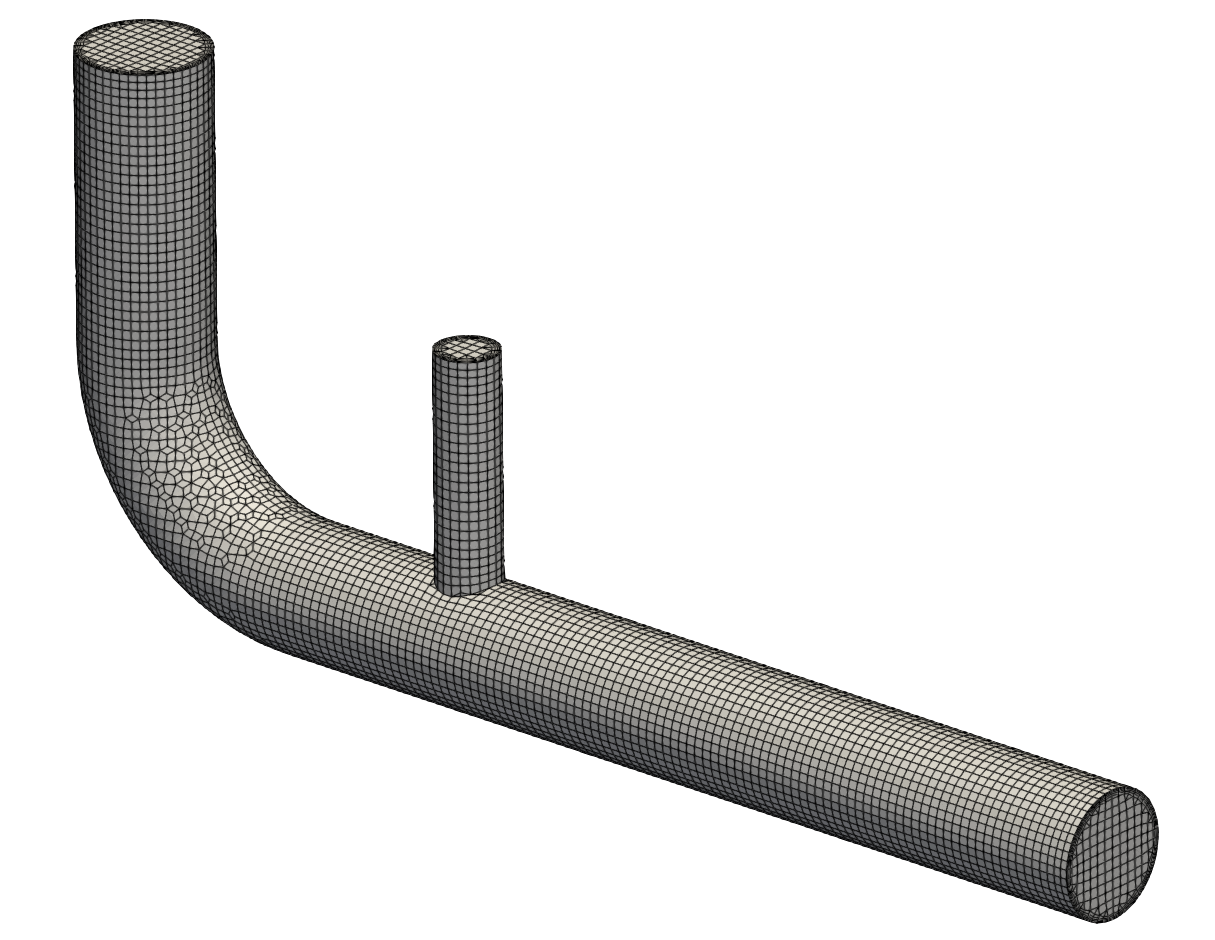
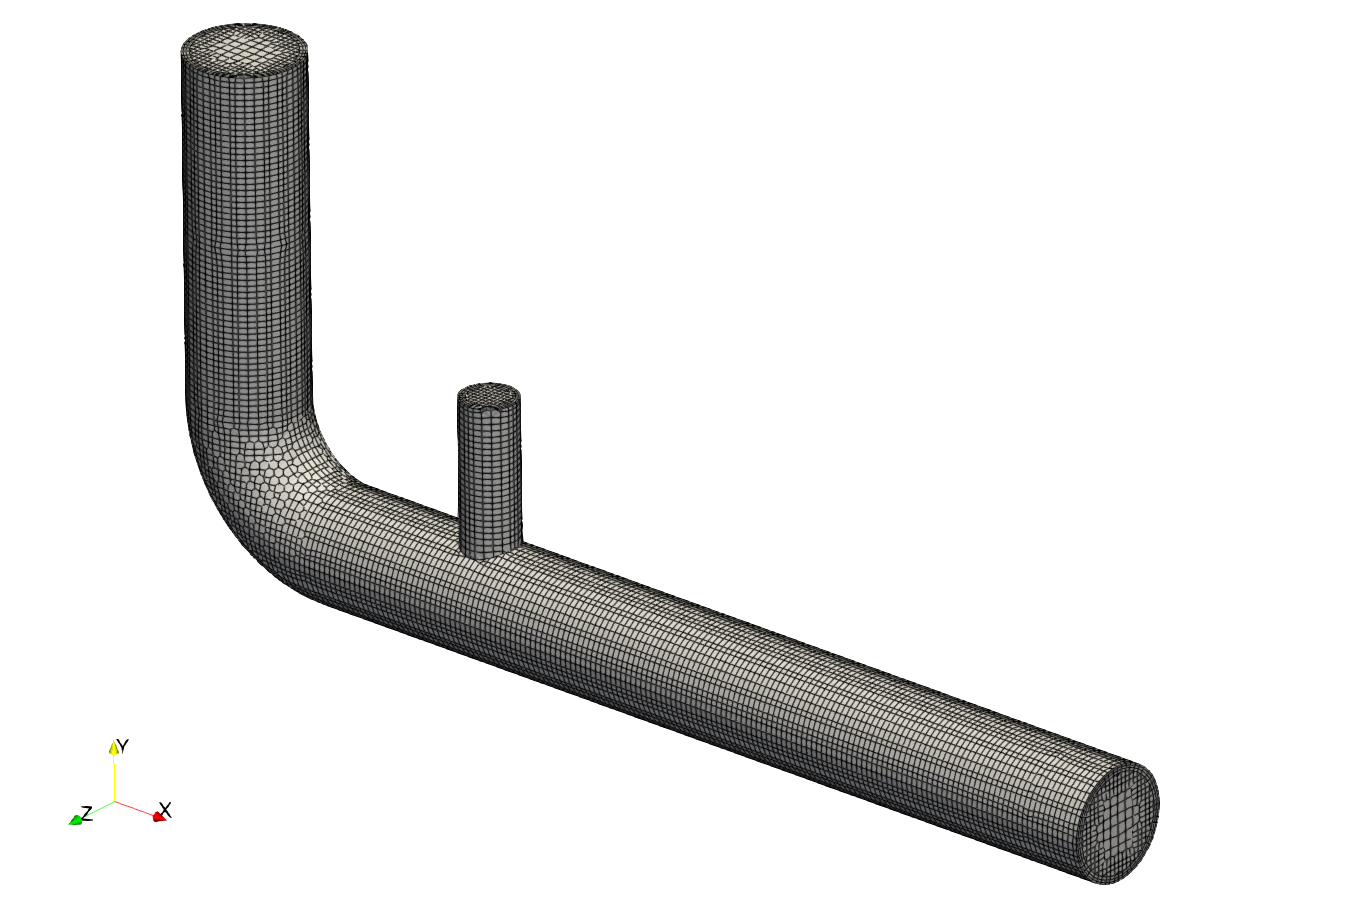
egr: pre-processing completed

diff --git a/6_exhaust_gas_recirculation/1_preprocessing.md b/6_exhaust_gas_recirculation/1_preprocessing.md
@@ -75,9 +75,9 @@ The overall cell size solely depends on the cell size of the background mesh and
 
 
 
-### Background Mesh Generation
+### Background Mesh
 
-At first, a background mesh must be generated using `blockMesh`. The `blockMeshDict` in the `system` folder creates a structured mesh, which completely spans the provided geometry of the exhaust gas recirculation domain. This background mesh can be generated as follows:
+At first, a background mesh must be generated using `blockMesh`. The `blockMeshDict` in the `system` folder creates a structured mesh, which completely spans the provided geometry of the exhaust gas recirculation domain with $$24 \times 12 \times 3$$ cells in $$x$$-, $$y$$-, and $$z$$-direction, respectively. This results in a uniform cell size of $$\Delta = 16.67\,\text{mm}$$. This background mesh can be generated as follows:
 
 ```bash
 blockMesh
@@ -85,79 +85,55 @@ blockMesh
 
 
 
+### Automated Hex-dominated Mesh
+
+The automated mesh generation can be started using the following command
+
+```bash
+snappyHexMesh
+```
+
+The background mesh is refined towards the wall patches `pipe_air` and `pipe_exhaust` by spliting the cells of the background mesh 3 times resulting in a cell size of $$\Delta \approx 2.1\,\text{mm}$$. At the other patches, the background mesh is refined only once for a cell size of $$\Delta \approx 8.33\,\text{mm}$$. Finally, three layers of prism cells are added at the `pipe_air` and `pipe_exhaust` wall patches with a growth ratio of 1.2.
+
+The resulting mesh looks as follows:
+
 ![Exhaust gas recirculation coarse mesh](figures/exhaust-gas-recirculation-mesh.png)
 
-
-At this point the mesh generation is complete. The mesh consists of:
- - Background mesh with a cell size of $$3 \text{mm}$$
- - Five inflation layers at the walls with a thickness ratio of 1.3.
- - Correct patch types for air and exhaust inlet, outlet, and pipe walls.
 
 
 
 
 ## Mesh Quality
 
-Once the mesh has been created, it is always recommended to check the mesh statistics and quality. This can easily be done using the utility `checkMesh` from within the `exhaust_gas_recirculation` folder:
+After mesh generation, the mesh statistics and quality are checked with `checkMesh`, run from within the case directory:
 
 ```
 checkMesh
 ```
 
-The most relevant output is as follows:
+The relevant part of the output is:
 
 ```
-// * * * * * * * * * * * * * * * * * * * * * * * * * * * * * * * * * * * * * //
-Create time
-
-Create polyMesh for time = 0
-
-Time = 0s
-
-Mesh stats 
-    points:           66681
-    faces:            190868
-    internal faces:   181436
-    cells:            62182
-    faces per cell:   5.98733
+Mesh stats
+    points:           88119
+    faces:            244816
+    cells:            78617
     boundary patches: 5
-
 ...
 
 Checking geometry...
-    Overall domain bounding box (-20.0004 -170 -19.9912) (360 7.23793e-11 19.9912)
-    Mesh has 3 geometric (non-empty/wedge) directions (1 1 1)
-    Mesh has 3 solution (non-empty) directions (1 1 1)
-    Boundary openness (4.74107e-17 -7.05875e-17 -2.54233e-15) OK.
-    Max cell openness = 5.20632e-16 OK.
-    Max aspect ratio = 16.3738 OK.
-    Minimum face area = 0.206012. Maximum face area = 13.7709.  Face area magnitudes OK.
-    Min volume = 0.177828. Max volume = 37.082.  Total volume = 627526.  Cell volumes OK.
-    Mesh non-orthogonality Max: 61.6751 average: 6.22186
-    Non-orthogonality check OK.
-    Face pyramids OK.
-    Max skewness = 2.4353 OK.
-    Coupled point location match (average 0) OK.
-
+    Overall domain bounding box (-20 -20 -20.0002) (360 160 20.0002)
+    Max aspect ratio = 5.87141 OK.
+    Mesh non-orthogonality Max: 63.1022 average: 8.46125
+    Max skewness = 1.57355 OK.
 
 Mesh OK.
-    
-End
 ```
 
-This gives us all relevant mesh statistics and quality criteria of the mesh:
+The mesh has 78617 cells across 5 boundary patches, and all quality metrics are well within their limits: a maximum aspect ratio of 5.87, a maximum non-orthogonality of 63.10, and a maximum skewness of 1.57. The closing `Mesh OK`. confirms that no critical issues were found, so we can proceed to the simulation.
 
-- The mesh consists of 62182 cells,
-- has 5 different boundary patches,
-- the overall boundingbox of $$380\,\text{m}$$ in $$x$$-direction, $$170\,\text{m}$$ in $$y$$-direction and $$40\,\text{m}$$ in $$z$$-direction.
 
-As this is a hexa-dominant, unstructured mesh with five layers of inflation cells on the wall surfaces, the mesh quality in general is good:
 
-- max cell aspect ratio of 16.4,
-- a maximum mesh non-orthogonality of 61.7, and
-- a max cell skewness of 2.44.
-
-The final output `Mesh OK.` indicates that no critical problems or errors were found during `checkMesh`. Therefore, we can continue with this mesh and proceed with the simulation.
 
 
 ## Mesh Scaling
@@ -182,7 +158,7 @@ Thermophysical models are concerned with:
 - Transport, e.g. the dependence of properties such as viscosity $$\mu$$ on temperature
 - State, e.g. dependence of density on temperature $$T$$ and pressure $$p$$.
 
-Unlike the setup for incompressible flows, these thermophysical properties are stored in the `thermophysicalProperties` file in the `constant` directory.
+These thermophysical properties are stored in the `physicalProperties` file in the `constant` directory.
 
 A thermophysical model required an entry named `thermoType` which specifies the package of thermophysical modelling that is used in the simulation. OpenFOAM includes a large set of pre-compiled combinations of modelling, built within the code using C++ templates.
 
@@ -203,7 +179,7 @@ thermoType
 }
 ```
 
-Depending on these submodels, specific fluid properties have to be specified. These settings are within the `mixture` dictionary in the `thermophysicalProperties` file:
+Depending on these submodels, specific fluid properties have to be specified. These settings are within the `mixture` dictionary in the `physicalProperties` file:
 
 ```
 mixture
@@ -220,7 +196,7 @@ mixture
     transport
     {
         mu          1.8e-5;
-        Pr          0.7;
+        kappa       0.025;
     }
 }
 ```
@@ -243,13 +219,13 @@ with the specific gas constant for air $$R$$.
 
 #### **Transport model**
 
-The transport modelling concerns evaluating dynamic viscosity $$\mu$$, thermal conductivity $$\kappa$$, and thermal diffusivity $$\alpha$$. In this case, a `const` transport model is specified, which assumes a constant dynamic viscosity $$\mu$$ and Prandtl number $$\text{Pr}$$. These two variables are specified by the keywords `mu` set to $$1.8 \times 10^{-5}$$ and `Pr` to $$0.7$$. Since thermal conductivity and thermal diffusivity can be derived from these quantities, they do not have to be specified.
+The transport modelling concerns evaluating dynamic viscosity $$\mu$$, thermal conductivity $$\kappa$$, and thermal diffusivity $$\alpha$$. In this case, a `const` transport model is specified, which assumes a constant dynamic viscosity $$\mu$$ and thermal conductivity $$\kappa$$. These two variables are specified by the keywords `kappa` set to $$1.8 \times 10^{-5}$$ and `kappa` to $$0.025$$.
 
 
 
 ## Turbulence Modelling
 
-The turbulence model is set in the `turbulenceProperties` file in the `constant` directory. The content of the file is as follows:
+The turbulence model is set in the `momentumTransport` file in the `constant` directory. The content of the file is as follows:
 
 ```
 simulationType RAS;
@@ -288,7 +264,7 @@ inlet_exhaust
 }
 ```
 
-Pressure at the inlet is treated as zero gradient and inlet temperature is $$300\,\text{K}$$ for the air inlet and $$900\,\text{K}$$ for the exhaust gas inlet, respectively. At the outlet, velocity and temperature are treated as zero gradient and the static pressure is set to $$10^5\,\text{Pa}$$. The walls are considered no-slip and adiabatic. Thus, the velocity is set to $$(0 \, 0 \, 0)$$, temperature and pressure to zero gradient.
+Pressure at both inlets is treated as zero gradient and inlet temperature is $$300\,\text{K}$$ for the air inlet and $$900\,\text{K}$$ for the exhaust gas inlet, respectively. At the outlet, velocity and temperature are treated as zero gradient and the static pressure is set to $$10^5\,\text{Pa}$$. The walls are considered no-slip and adiabatic. Thus, the velocity is set to $$(0 \, 0 \, 0)$$, temperature and pressure to zero gradient.
 
 
 ### Turbulent Quantities
@@ -301,11 +277,12 @@ Turbulent viscosity $$\nu_t$$ and turbulent thermal diffusivity $$\alpha_t$$ hav
 
 ## Simulation Control
 
-Settings related to the control of time and reading and writing of the solution data are read in from the `controlDict` file in the `system` folder.
+Time control, solver selection and output settings are read from the `controlDict` in the `system` directory:
 
-The key settings for this steady-state turbulent simulation include:
 ```
-application     rhoPimpleFoam;
+solver          fluid;
+
+startFrom       latestTime;
 
 startTime       0;
 
@@ -313,72 +290,58 @@ stopAt          endTime;
 
 endTime         0.08;
 
-deltaT          8e-6;
+deltaT          1.25e-5;
 
 writeControl    runTime;
 
 writeInterval   0.002;
 ```
 
-In this tutorial case, the solver `rhoPimpleFoam` is used, a pressure-based solver for compressible, transient, laminar or turbulent single-phase flows. The simulation starts at time `0`. Therefore we set the `startFrom` keyword to `startTime` and then specify the `startTime` keyword to be `0`. The simulations runs until an end time of $$0.08\,\text{s}$$. Time step size `deltaT` is set to $$8 \times 10^{-6}\,\text{s}$$ for stability reasons. Finally, results are witten out every $$0.002\,\text{s}$$ configured via the `writeInterval` keyword.
+In this tutorial case, the solver `fluid` is used, a pressure-based solver for compressible, steady-state or transient, laminar or turbulent single-phase flows. The simulation starts at time `0`, runs until an end time of $$0.08\,\text{s}$$. Time step size `deltaT` is set to $$1.25 \times 10^{-5}\,\text{s}$$ for stability reasons. Finally, results are witten out every $$0.002\,\text{s}$$.
 
 
 
 ## Discretization
 
-The user specifies the choice of finite volume discretisation schemes in the `fvSchemes` dictionary in the `system` directory. Here, we will only cover the most relevant settings.
+The finite-volume discretisation schemes are set in the `fvSchemes` dictionary in the `system` directory. Since this is a transient simulation, the temporal term discretization is first Euler implicit, gradients use an unlimited second order scheme `Gauss linear`, and the convective terms for momentum, energy, and turbulent scalars use a second order upwind scheme. Since the SST $$k-\omega$$ turbulence model is chosen, the distance from cell centers to the nearest wall has to be computed. For this, the `meshWave` method is selected under `wallDist`.
 
-### Temporal derivatives
-
-The discretization of the temporal derivatives $$(\partial / \partial t)$$ is defined within the `ddtSchemes` keyword. The entry here is set to `Euler`, e.g. a first order implicit time discretization.
 
 ```
 ddtSchemes
 {
-    default             Euler;
+    default         Euler;
 }
-```
 
-### Gradient terms
-
-The discretization of the gradient terms is defined within the `gradSchemes` keyword. All gradient schemes are discretized equally with a second order **central differencing scheme**. Hence, the `default` discretization is set to `Gauss linear`.
-
-```
 gradSchemes
 {
-    default             Gauss linear;
+    default         Gauss linear;
 }
-```
 
-### Convective terms
-
-The discretization of the convective transport terms is defined within the `divSchemes` keyword. The convective transport of momentum `div(phi,U)` adn enthalpy `div(phi,h)` is discretized using the **second order upwind scheme** called `Gauss linearUpwind` combined with the default gradient scheme defined under `gradSchemes`. The convection of kinetic energy in the energy equation `div(phi,K)` is discretized with a **second order central differencing scheme** called `Gauss linear` and the turbulent quantities are discretized with **first order upwind**.
-
-Additionaly, `div((nuEff*dev2(T(grad(U)))))` denotes the divergence of the shear stress tensor in the momentum equation. Since this term is diffusive in nature, it is recommended to discretize it with a central differencing scheme, here `Gauss linear`.
-
-```
 divSchemes
 {
-    div(phi,U)      Gauss linearUpwindV default;
+    div(phi,U)      Gauss linearUpwindV  Gauss linear;
 
-    div(phi,h)      Gauss linearUpwind default;
-    div(phi,K)      Gauss linear;
+    div(phi,h)      Gauss linearUpwind Gauss linear;
+    div(phi,K)      Gauss linearUpwind Gauss linear;
 
-    div(phi,k)      Gauss upwind;
-    div(phi,omega)  Gauss upwind;
+    div(phi,k)      Gauss linearUpwind Gauss linear;
+    div(phi,omega)  Gauss linearUpwind Gauss linear;
+}
 
-    div(((rho*nuEff)*dev2(T(grad(U))))) Gauss linear;
+...
+
+wallDist
+{
+    method          meshWave;
 }
 ```
 
 
 ## Linear Solver Settings
 
-The specification of the linear equation solvers, tolerances and other algorithm controls is made in the `fvSolution` dictionary in the `system` directory. These settings are as follows for the exhaust gas recirculation case.
+The linear equation solvers, tolerances and coupling controls are set in the `fvSolution` dictionary in the `system` directory.
 
-### Solver settings
-
-The pressure field in the pressure-velocity coupling is solved using a **Geometric agglomerated Algebraic MultiGrid** (short: GAMG) solver with a Gauss-Seidel solver for smoothing during the multi-grid steps. The solver is actually set up twice as the pressure-velocity equation is solved more than once. For the intermediate iterations, a relative tolerance of $$0.01$$ is used while for the final iteration a relative tolerance of $$0$$ is used.
+The pressure field in the pressure-velocity coupling is solved using a **Geometric agglomerated Algebraic MultiGrid** (short: GAMG) solver with a Gauss-Seidel solver for smoothing during the multi-grid steps. The solver is actually set up twice as the pressure-velocity equation is solved more than once. For the intermediate iterations, a relative tolerance of $$0.01$$ is used while for the final iteration a relative tolerance of $$0$$ is used. The momentum and energy equation as well as the transport equations for the turbulent properties are solved using a Gauss Seidel solver . The absolute tolerance for solving is $$10^{-6}$$ with a relative tolerance of $$0.1$$.
 
 ```
 solvers
@@ -387,7 +350,7 @@ solvers
     {
         solver          GAMG;
         smoother        GaussSeidel;
-        tolerance       1e-06;
+        tolerance       1e-6;
         relTol          0.01;
     }
 
@@ -396,43 +359,26 @@ solvers
         $p;
         relTol          0;
     }
-... 
-}
-```
 
-The momentum and energy equation as well as the transport equations for the turbulent properties are solved using a Gauss Seidel solver . The absolute tolerance for solving is $$10^{-6}$$ with a relative tolerance of $$0.1$$:
-
-```
-solvers
-{
-...
-
-    "(rho|U|h|k|omega)"
+    "(rho|U|h|k|omega).*"
     {
         solver          smoothSolver;
         smoother        symGaussSeidel;
         tolerance       1e-06;
-        relTol          0.1;
-    }
-
-    "(rho|U|h|k|omega)Final"
-    {
-        $U;
-        relTol          0;
+        relTol          0.01;
     }
 }
 ```
 
 
+
 ### Pressure-velocity coupling
 
-Pressure-based, steady-state simulations in OpenFOAM rely on the PIMPLE pressure-velocity coupling algorithm. Additional options for this algorithm are available within the `PIMPLE` entry in `fvSolutions`. In this tutorial, the pressure correction equation is solved one additional time every iteration for improved convergence and stability with the `nCorrectors` entry set to `2`. Since this is a transient simulation, relaxation factors or residual criteria are not necessarily required.
+Pressure-based simulations in OpenFOAM rely on the PIMPLE pressure-velocity coupling algorithm. In this tutorial, the pressure correction equation is solved one additional time every iteration for improved convergence and stability with the `nCorrectors` entry set to `2`. Since this is a transient simulation, relaxation factors or residual criteria are not strictly required.
 
 ```
 PIMPLE
 {
-    nOuterCorrectors    1;
     nCorrectors         2;
-    nNonOrthogonalCorrectors 0;
 }
 ```
